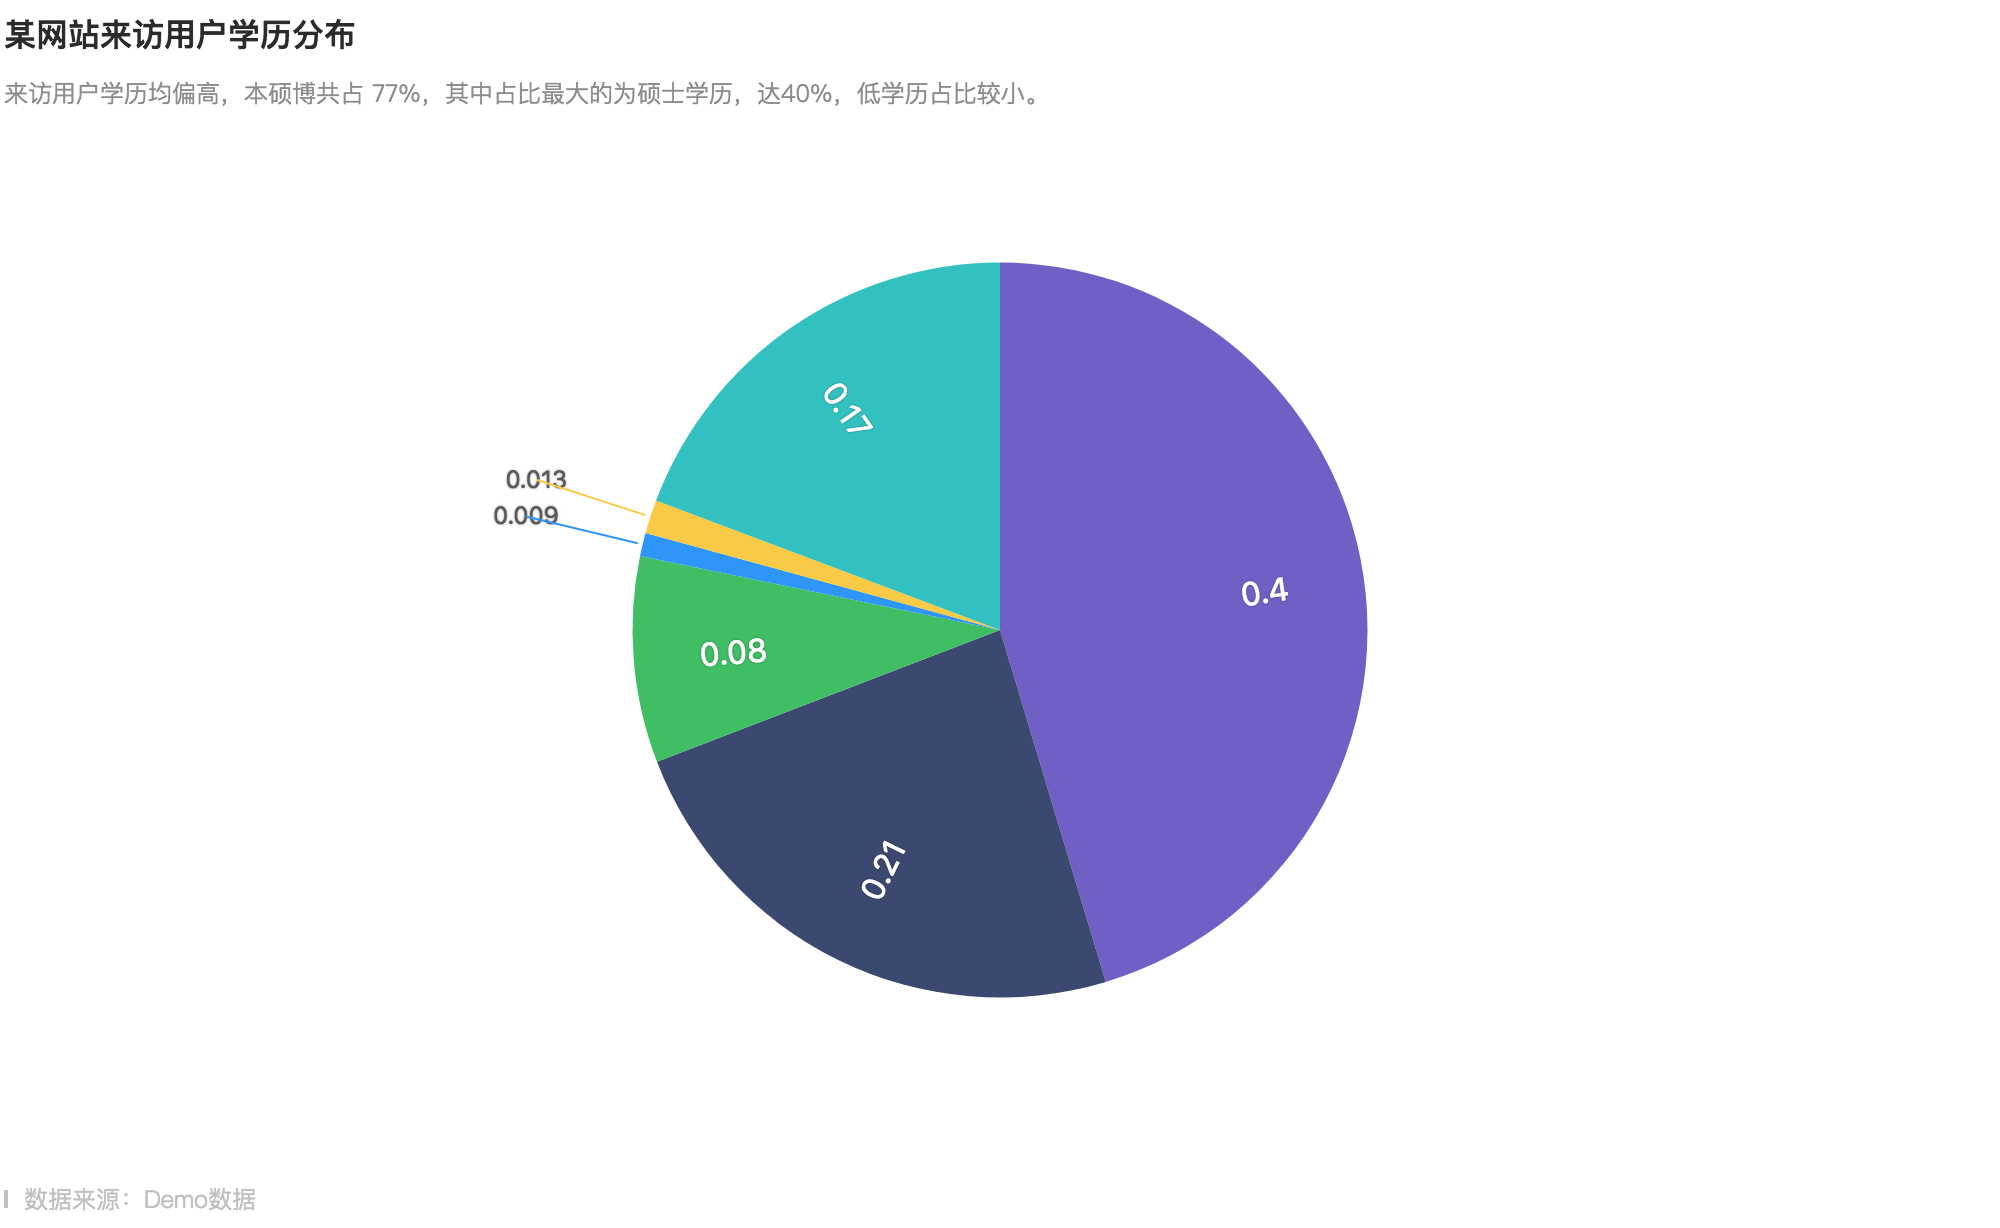
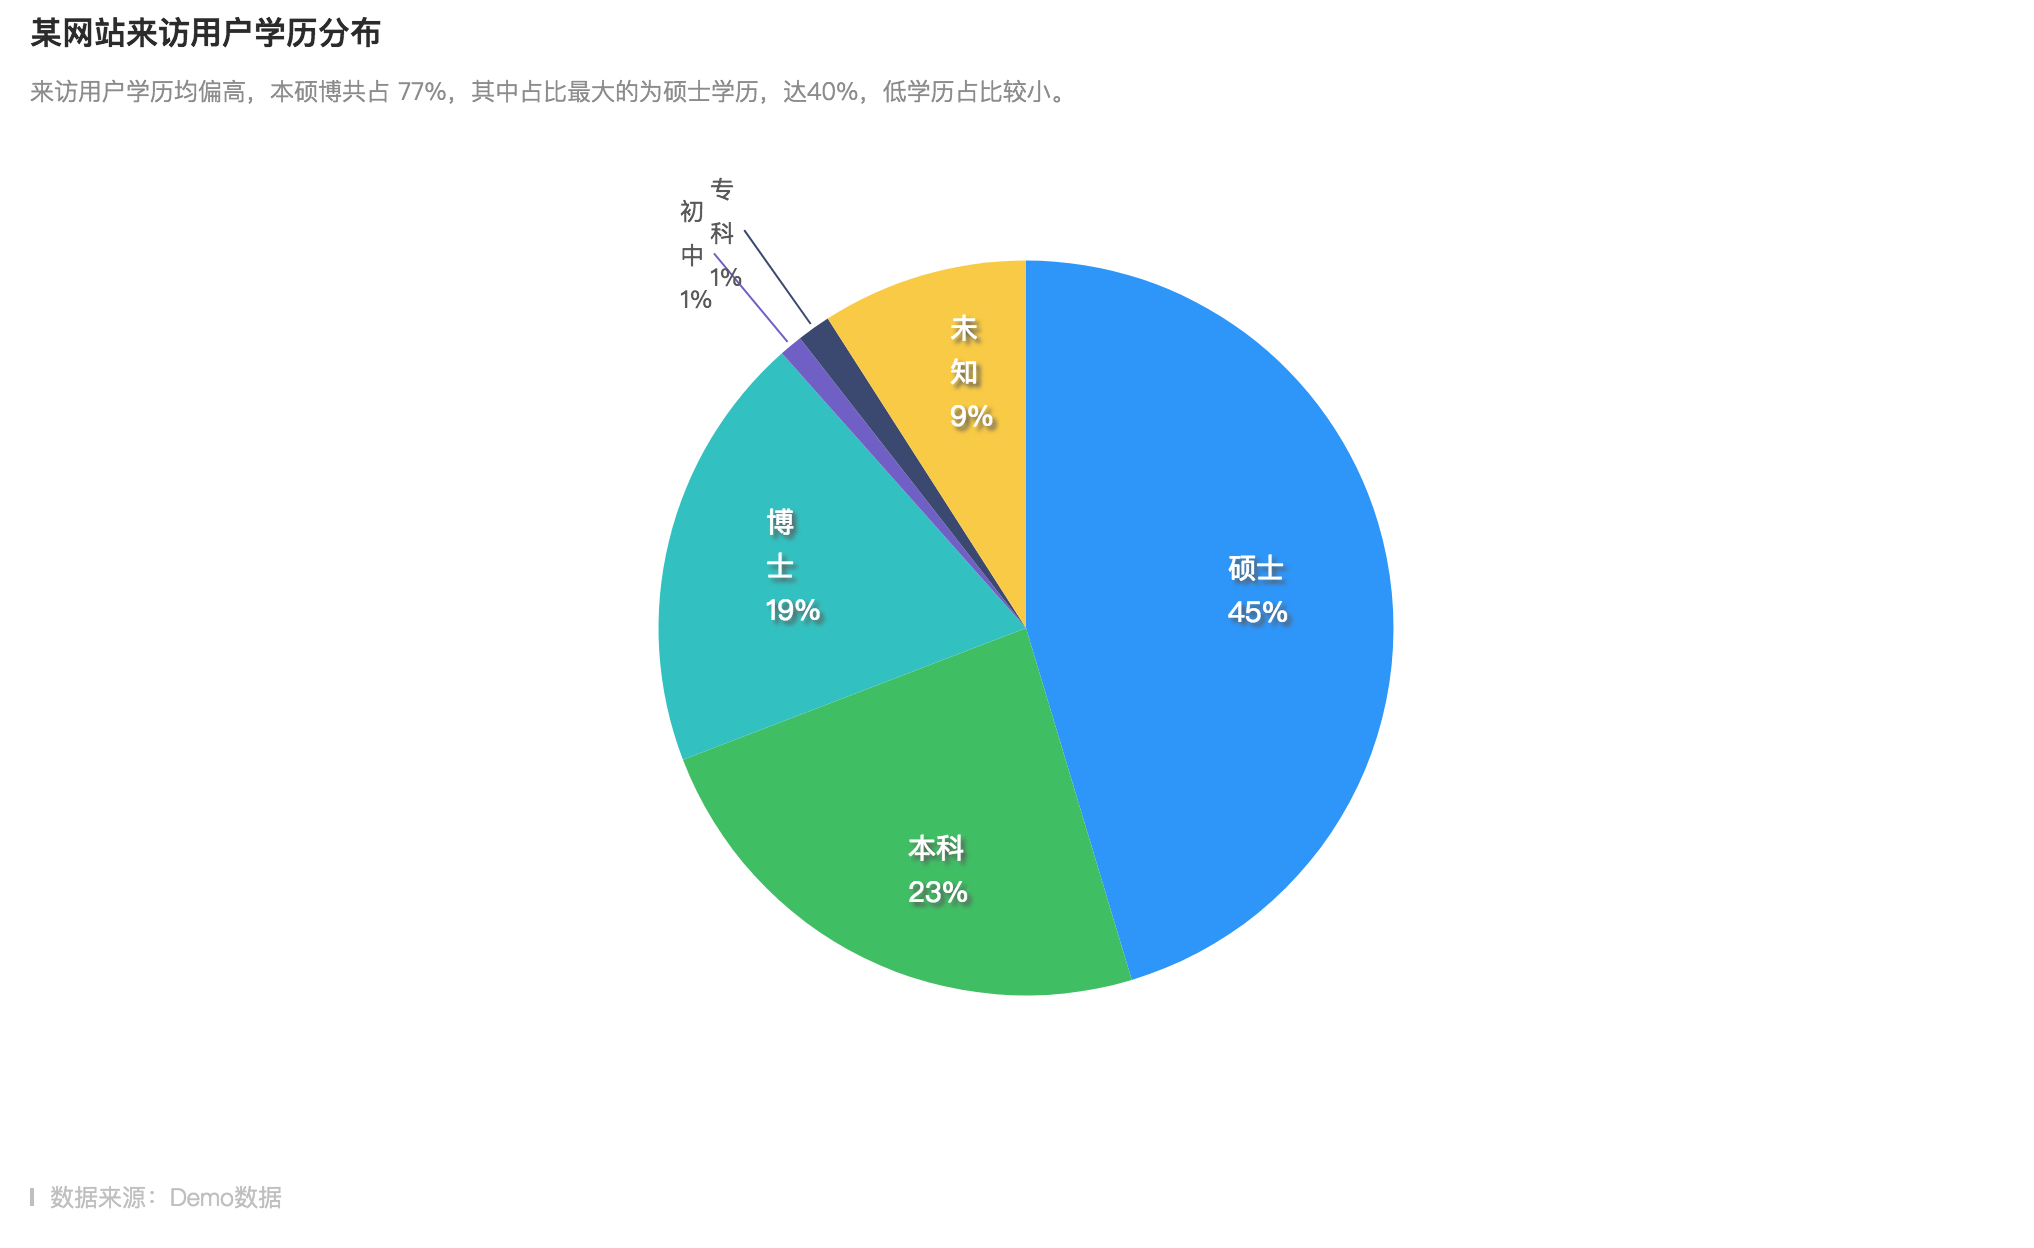
add pie demo 2 & 3 & 4

diff --git a/demos/pie2.html b/demos/pie2.html
@@ -1,0 +1,152 @@
+<!DOCTYPE html>
+<html lang="en">
+
+<head>
+    <meta charset="UTF-8">
+    <meta name="viewport" content="width=device-width, initial-scale=1.0">
+    <meta http-equiv="X-UA-Compatible" content="ie=edge">
+    <meta name="geometry" content="line">
+    <link rel="stylesheet" href="./assets/style/common.css">
+    <style>
+        .g2-label-item {
+            font-size: 12px;
+            color: #ffffff;
+        }
+    </style>
+    <title>《战狼3》关注度来源</title>
+</head>
+
+<body>
+    <div id="chartTitle">《战狼3》关注度来源</div>
+    <div id="chartDescription">该电影在微博上的信息量占据主导地位，微博仍然是目前娱乐影视的主要营销宣传增强影响力的主要渠道，也是主创团队和粉丝进行互动的主要方式。</div>
+    <div id="canvas"></div>
+    <div id="dataSource">数据来源：Demo数据</div>
+    <script src="./assets/jquery-3.2.1.min.js"></script>
+    <script src="./assets/data-set.min.js"></script>
+    <script src="https://gw.alipayobjects.com/os/antv/pkg/_antv.g2-3.3.1/dist/g2.min.js"></script>
+    <script>
+        const otherRatio = 6.67 / 100; // Other 的占比
+        const otherOffsetAngle = otherRatio * Math.PI; // other 占的角度的一半
+        const data = [
+            { type: '微博', value: 93.33 },
+            { type: '其他', value: 6.67 }
+        ];
+        const other = [
+            { type: '论坛', value: 1.77 },
+            { type: '网站', value: 1.44 },
+            { type: '微信', value: 1.12 },
+            { type: '客户端', value: 1.05 },
+            { type: '新闻', value: 0.81 },
+            { type: '视频', value: 0.39 },
+            { type: '博客', value: 0.37 },
+            { type: '报刊', value: 0.17 }
+        ];
+        const chart = new G2.Chart({
+            container: 'canvas',
+            width: $('#canvas').width(),
+            height: $('#canvas').height(),
+            padding: 'auto'
+        });
+        chart.legend(false);
+        const view1 = chart.view({
+            start: {
+                x: 0,
+                y: 0
+            },
+            end: {
+                x: 0.5,
+                y: 1
+            }
+        });
+        view1.coord('theta', {
+            radius: 0.7,
+            startAngle: 0 + otherOffsetAngle,
+            endAngle: Math.PI * 2 + otherOffsetAngle
+        });
+        view1.source(data);
+        view1.intervalStack().position('value').color('type', ['#38c060', '#2593fc']).opacity(1)
+        .label('value',function(val){
+            return {
+                offset:-40,
+                useHtml:true,
+                htmlTemplate: (text, item, index) => {
+                    const d = item.point;
+                    const percent = text + "%";
+                    return '<span class="g2-label-item">'+d.type+'<br/>'+percent+'</span>';
+                }
+            }
+        });
+
+        const view2 = chart.view({
+            start: {
+                x: 0.5,
+                y: 0.1
+            },
+            end: {
+                x: 1,
+                y: 0.9
+            }
+        });
+        view2.axis(false);
+        view2.source(other, {
+            value: {
+                nice: false
+            }
+        });
+        view2.intervalStack().position('1*value').color('type', ['#063d8a', '#0b53b0', '#1770d6', '#2593fc', '#47abfc', '#6dc1fc', '#94d6fd', '#bbe7fe'])
+        .label('value',{
+            position:'right',
+            offset:[-20, 0],
+            formatter: (text, item, index) => {
+                const d = item.point;
+                return d.type + ' ' + d.value+'%';
+            }
+        });
+        chart.render();
+
+        /*---------绘制连接区间-----------*/
+        const canvas = chart.get('canvas');
+        const container = chart.get('backPlot');
+        const view1_coord = view1.get('coord');
+        const center = view1_coord.center;
+        const radius = view1_coord.radius;
+        const interval_geom = chart.getAllGeoms()[1];
+        const interval_container = interval_geom.get('shapeContainer');
+        const interval_bbox = interval_container.getBBox();
+        const view2_coord = view2.get('coord');
+        const view2_y_scale = view2.getYScales()[0];
+        //area points
+        const pie_start1 = {
+            x: center.x + Math.cos(Math.PI * 2 - otherOffsetAngle) * radius,
+            y: center.y + Math.sin(Math.PI * 2 - otherOffsetAngle) * radius,
+        };
+        const pie_start2 = {
+            x: center.x + Math.cos(otherOffsetAngle) * radius,
+            y: center.y + Math.sin(otherOffsetAngle) * radius
+        };
+        const interval_end1 = {
+            x: interval_bbox.minX,
+            y: view2_coord.end.y
+        };
+        const interval_end2 = {
+            x: interval_bbox.minX,
+            y: view2_coord.start.y
+        };
+        const path = [
+            ['M', pie_start1.x, pie_start1.y],
+            ['L', pie_start2.x, pie_start2.y],
+            ['L', interval_end2.x, interval_end2.y],
+            ['L', interval_end1.x, interval_end1.y],
+            ['Z']
+        ];
+        container.addShape('path', {
+            attrs: {
+                path,
+                fill: '#e9f4fe'
+            }
+        });
+        canvas.draw();
+    </script>
+</body>
+
+</html>

diff --git a/demos/pie1.html b/demos/pie1.html
@@ -7,7 +7,12 @@
     <meta http-equiv="X-UA-Compatible" content="ie=edge">
     <meta name="geometry" content="line">
     <link rel="stylesheet" href="./assets/style/common.css">
+    <style>
+    .g2-label-item-inner {font-size:14px; color:#ffffff; text-shadow: 1px 1px 2px #595959;}
+    .g2-label-item-outer {font-size:12px; color:#595959;}
+    </style>
     <title>某网站来访用户学历分布</title>
+
 </head>
 
 <body>
@@ -22,11 +27,20 @@
         const data = [
             { type: '硕士', value: 0.4 },
             { type: '本科', value: 0.21 },
-            { type: '未知', value: 0.08 },
+            { type: '博士', value: 0.17 },
             { type: '初中', value: 0.009 },
             { type: '专科', value: 0.013 },
-            { type: '博士', value: 0.17 }
+            { type: '未知', value: 0.08 },
         ];
+
+        const ds = new DataSet();
+        const dv = ds.createView().source(data);
+        dv.transform({
+            type: 'percent',
+            field: 'value',
+            dimension: 'type',
+            as: 'percent'
+        });
 
         const chart = new G2.Chart({
             container: 'canvas',
@@ -34,32 +48,22 @@
             height: $('#canvas').height(),
             padding: 'auto'
         });
-        chart.source(data, {
-            value: {
-                max: 1300,
-                min: 0,
-                nice: false,
-                alias: '销量（百万）'
-            }
-        });
+        chart.source(dv);
         chart.legend(false);
         chart.coord('theta', {
             radius: 0.75
         });
-        chart.intervalStack().position('value').color('type', ['#705dc8', '#3b4771', '#38c060', '#2593fc', '#f9cb34', '#27c1c1']).opacity(1).label('value', function (val) {
+        chart.intervalStack().position('value').color('type', ['#2593fc', '#38c060', '#27c1c1', '#705dc8', '#3b4771', '#f9cb34']).opacity(1).label('value', function (val) {
             const offset = (val > 0.02) ? -50 : 60;
-            let color = (val > 0.02)? 'white':'#595959';
-            let fontSize = (val > 0.02)?16:12;
+            const label_class = (val > 0.02) ? "g2-label-item-inner":"g2-label-item-outer";
             return {
-                textStyle: {
-                    fill:color,
-                    fontSize,
-                    rotate: 0,
-                    textAlign: 'center',
-                    shadowBlur: 2,
-                    shadowColor: 'rgba(0, 0, 0, .45)'
-                },
-                offset
+                offset,
+                useHtml: true,
+                htmlTemplate: (text, item, index) => {
+                    const d = item.point;
+                    const percent = String(parseInt(d.percent*100))+"%";
+                    return '<span class='+label_class+'>'+d.type+'<br/>'+percent+'</span>';
+                }
             }
         });
         chart.render();

diff --git a/demos/pie3.html b/demos/pie3.html
@@ -1,0 +1,74 @@
+<!DOCTYPE html>
+<html lang="en">
+
+<head>
+    <meta charset="UTF-8">
+    <meta name="viewport" content="width=device-width, initial-scale=1.0">
+    <meta http-equiv="X-UA-Compatible" content="ie=edge">
+    <meta name="geometry" content="line">
+    <link rel="stylesheet" href="./assets/style/common.css">
+    <title>2018年第一季度不同等级城市的用户购买手机占比</title>
+</head>
+
+<body>
+    <div id="chartTitle">2018年第一季度不同等级城市的用户购买手机占比</div>
+    <div id="chartDescription">当前购机主力用户主要分布在三四线及以下城市。主要原因是一二线城市对新机需求逐渐消退，而三四线城市随着城镇化的推进与意识形态的崛起，对新机需求旺盛，在2018年第一季度合计占比达到60%。</div>
+    <div id="canvas"></div>
+    <div id="dataSource">数据来源：MTA</div>
+    <script src="./assets/jquery-3.2.1.min.js"></script>
+    <script src="./assets/data-set.min.js"></script>
+    <script src="https://gw.alipayobjects.com/os/antv/pkg/_antv.g2-3.3.1/dist/g2.min.js"></script>
+    <script>
+        const data = [
+            { type: '一线城市', value: 0.19 },
+            { type: '二线城市', value: 0.21 },
+            { type: '三线城市', value: 0.27 },
+            { type: '四线及以下', value: 0.33 }
+        ];
+        const chart = new G2.Chart({
+            container: 'canvas',
+            width: $('#canvas').width(),
+            height: $('#canvas').height(),
+            padding: 'auto'
+        });
+        chart.source(data);
+        chart.legend(false);
+        chart.coord('theta', {
+            radius: 0.75
+        });
+        chart.intervalStack().position('value').color('type', ['#063d8a', '#1770d6', '#47abfc', '#38c060'])
+            .opacity('type', function (val) {
+                if (val === '四线及以下') {
+                    return 1;
+                }
+                return 0.3;
+            })
+            .style('type', {
+                stroke: 'black',
+                lineWidth: (val) => {
+                    if (val === '四线及以下') {
+                        return 2;
+                    }
+                    return 0;
+                }
+            })
+            .label('type', function (val) {
+                const opacity = (val === '四线及以下')?1:0.5;
+                return {
+                    offset: -30,
+                    textStyle: {
+                        opacity,
+                        fill: 'white',
+                        fontSize:14
+                    },
+                    formatter: (text, item, index) => {
+                        const d = item.point;
+                        return d.type + '\n' + d.value + '%';
+                    }
+                }
+            });
+        chart.render();
+    </script>
+</body>
+
+</html>

diff --git a/demos/pie4.html b/demos/pie4.html
@@ -1,0 +1,70 @@
+<!DOCTYPE html>
+<html lang="en">
+
+<head>
+    <meta charset="UTF-8">
+    <meta name="viewport" content="width=device-width, initial-scale=1.0">
+    <meta http-equiv="X-UA-Compatible" content="ie=edge">
+    <meta name="geometry" content="line">
+    <link rel="stylesheet" href="./assets/style/common.css">
+    <title>outing 去哪玩投票结果分析</title>
+</head>
+
+<body>
+    <div id="chartTitle">outing 去哪玩投票结果分析</div>
+    <div id="chartDescription">约一半同学喜欢海岛休闲游，20% 的同学万年不变的选择了千岛湖，其次较多的是柬埔寨，呼伦贝尔选择较少是因为季节不对。距离较远的苏梅岛和塞班岛，相对来说不受欢迎。</div>
+    <div id="canvas"></div>
+    <div id="dataSource">数据来源：MTA</div>
+    <script src="./assets/jquery-3.2.1.min.js"></script>
+    <script src="./assets/data-set.min.js"></script>
+    <script src="https://gw.alipayobjects.com/os/antv/pkg/_antv.g2-3.3.1/dist/g2.min.js"></script>
+    <script>
+        const data = [
+            { location: '三亚', value: 44.9 },
+            { location: '千岛湖', value: 19.7 },
+            { location: '柬埔寨', value: 17.3 },
+            { location: '呼伦贝尔', value: 14.4 },
+            { location: '苏梅岛', value: 2.5 },
+            { location: '塞班岛', value: 2.5 }
+        ];
+        const chart = new G2.Chart({
+            container: 'canvas',
+            width: $('#canvas').width(),
+            height: $('#canvas').height(),
+            padding: 'auto'
+        });
+        chart.source(data);
+        chart.legend({
+            position: 'right-center',
+            offsetX: -200
+        });
+        chart.coord('theta', {
+            radius: 0.75
+        });
+        chart.intervalStack().position('value').color('location', ['#1890ff', '#37c661', '#fbce1e', '#2b3b79', '#8a4be2', '#1dc5c5'])
+            .style({
+                stroke: 'white',
+                lineWidth: 1
+            })
+            .label('value', function (val) {
+                if (val < 3) {
+                    return null;
+                } else {
+                    return {
+                        offset: -50,
+                        textStyle: {
+                            fill: 'white',
+                            fontSize: 14
+                        },
+                        formatter: (text, item, index) => {
+                            console.log(text);
+                            return text + '%';
+                        }
+                    }
+                }
+            });
+        chart.render();
+    </script>
+</body>
+
+</html>
